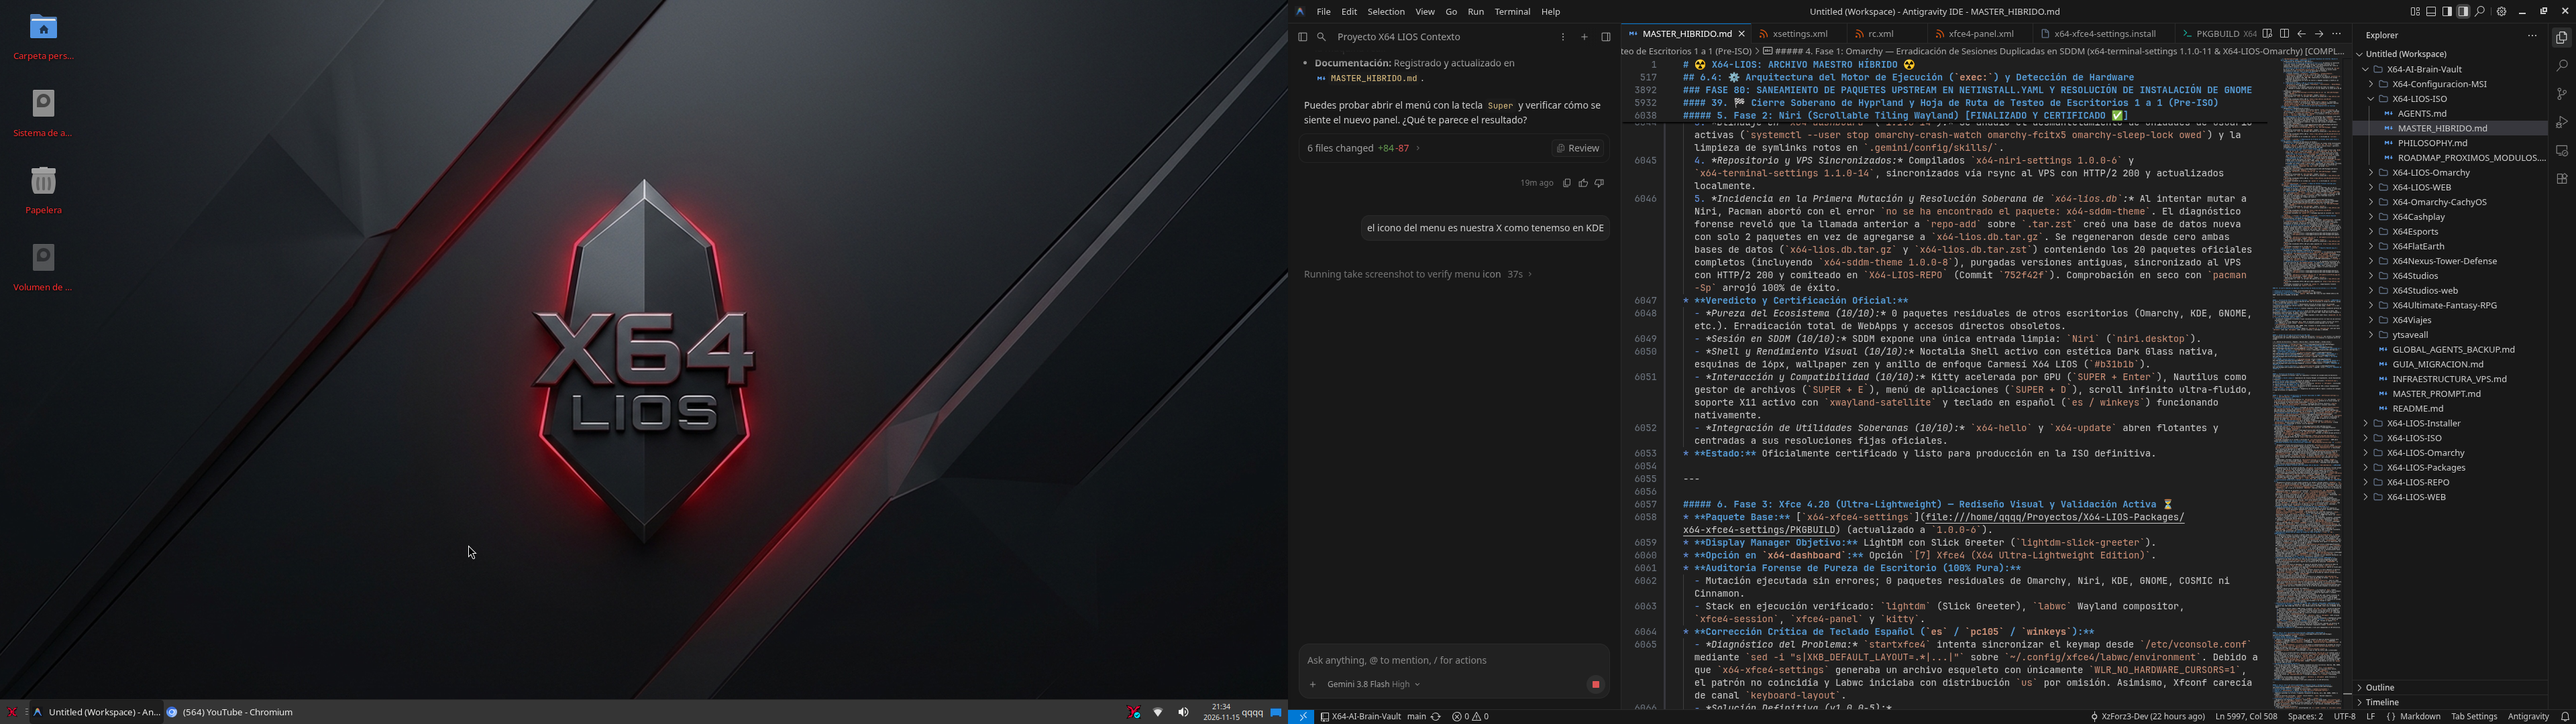
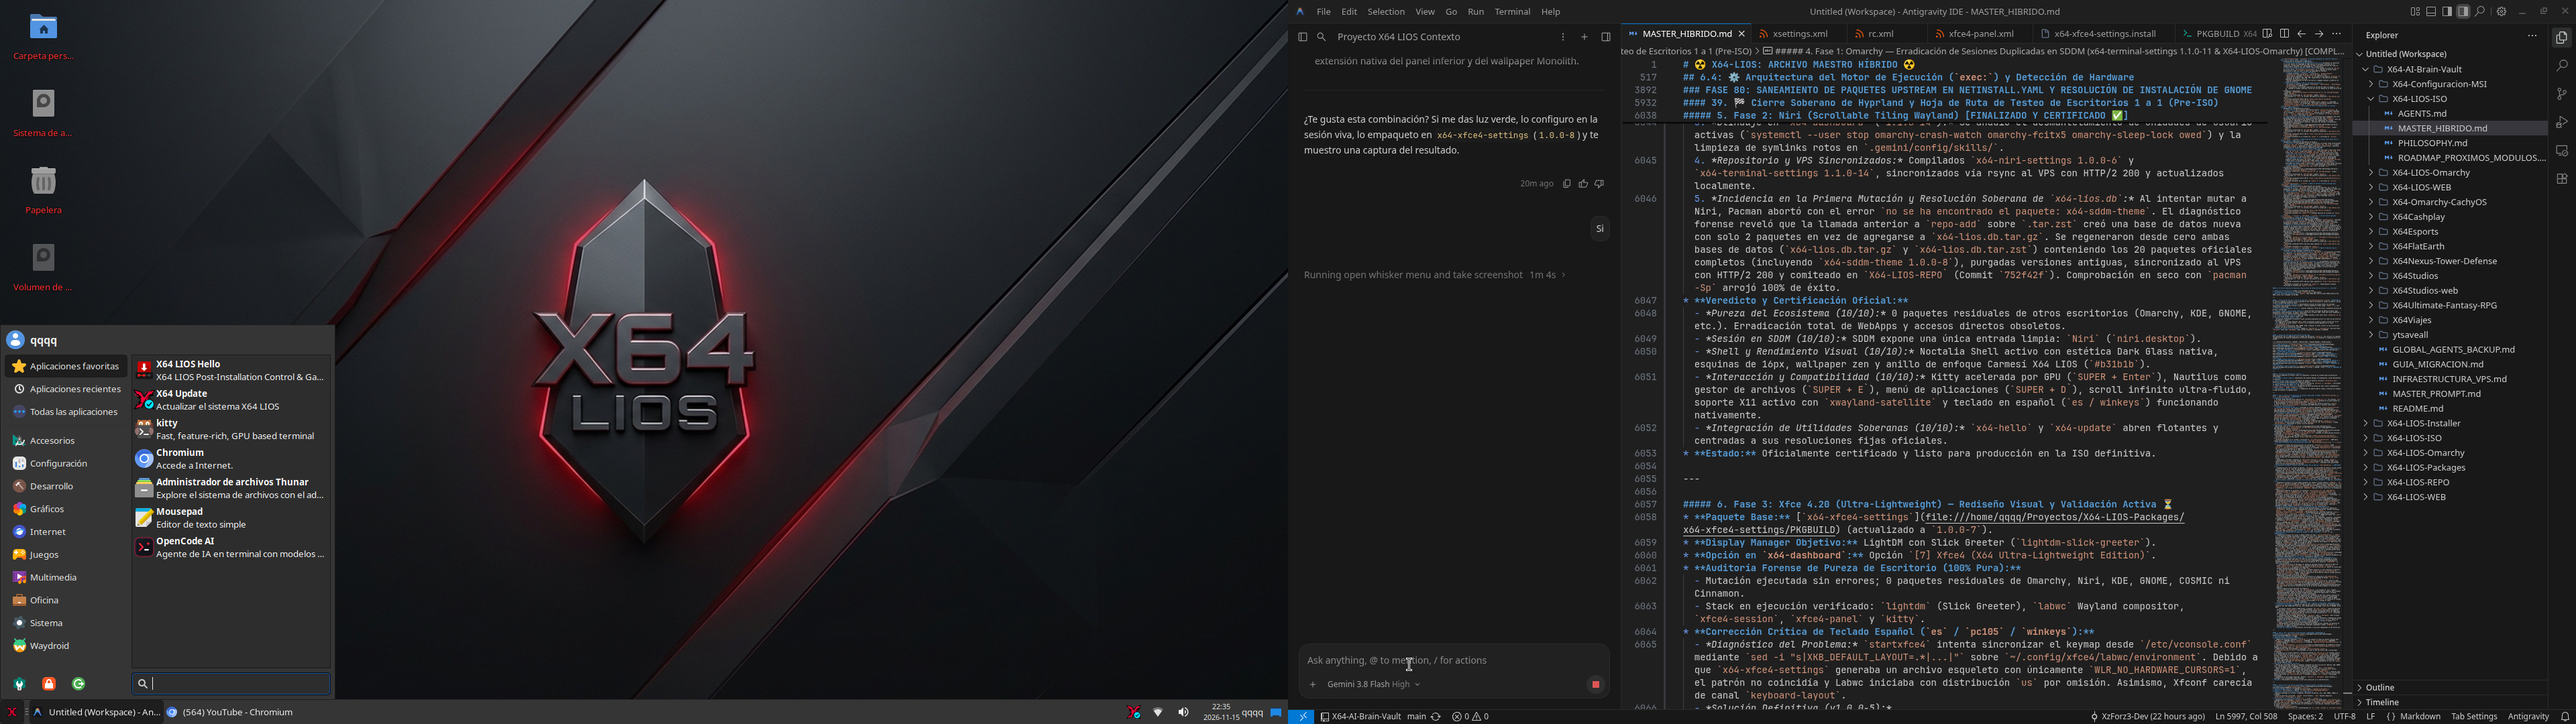
feat(xfce4): modernize Whisker Menu with search on bottom, categories on left, hover navigation, official favorites, and dark glass CSS

diff --git a/x64-xfce4-settings/gtk.css b/x64-xfce4-settings/gtk.css
@@ -1,0 +1,55 @@
+@define-color accent_color #ff2b2b;
+@define-color accent_fg_color #ffffff;
+@define-color accent_bg_color #ff2b2b;
+@define-color window_bg_color #0a0b10;
+@define-color window_fg_color #f0f2f8;
+@define-color headerbar_bg_color #0d1017;
+@define-color headerbar_fg_color #f0f2f8;
+@define-color popover_bg_color #0d1017;
+@define-color popover_fg_color #f0f2f8;
+@define-color view_bg_color #12151f;
+@define-color view_fg_color #f0f2f8;
+@define-color card_bg_color #12151f;
+@define-color card_fg_color #f0f2f8;
+@define-color sidebar_bg_color @window_bg_color;
+@define-color sidebar_fg_color @window_fg_color;
+@define-color sidebar_border_color @window_bg_color;
+@define-color sidebar_backdrop_color @window_bg_color;
+@define-color theme_selected_bg_color alpha(@accent_color, 0.15);
+@define-color theme_selected_fg_color @accent_color;
+
+
+/* X64 LIOS Whisker Menu Styling */
+#whiskermenu-window {
+    background-color: #0e1017;
+    color: #f0f2f8;
+    border: 1px solid #2b2b2e;
+    border-radius: 12px;
+}
+
+#whiskermenu-window entry {
+    background-color: #161a24;
+    color: #ffffff;
+    border: 1px solid #2b2b2e;
+    border-radius: 8px;
+    padding: 6px 10px;
+}
+
+#whiskermenu-window entry:focus {
+    border-color: #ff2b2b;
+}
+
+#whiskermenu-window treeview {
+    background-color: transparent;
+    color: #f0f2f8;
+}
+
+#whiskermenu-window treeview:hover {
+    background-color: rgba(255, 43, 43, 0.12);
+}
+
+#whiskermenu-window treeview:selected {
+    background-color: rgba(255, 43, 43, 0.25);
+    color: #ffffff;
+    border-radius: 6px;
+}
